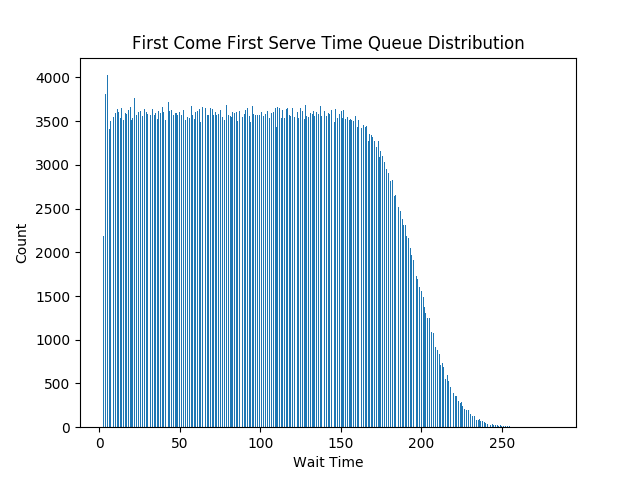
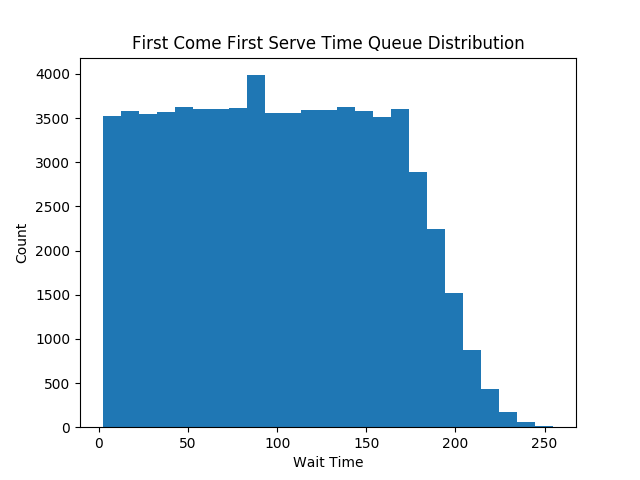
fixed bins

diff --git a/monte_carlo_v2.py b/monte_carlo_v2.py
@@ -1,12 +1,14 @@
 """
-590PR Spring 2019. Instructor: John Weible  jweible@illinois.edu
-Assignment on Numpy: "High-Tech Sculptures"
+By Alex Wieker; Email: awieker2@illinois.edu
+IS 590 PR Final Project: Wood Furniture Production Monte Carlo Simulation"
 See assignment instructions in the README.md document.
 """
+
 import numpy as np
 import pandas as pd
 import matplotlib.pyplot as plt
 import warnings
+
 
 desired_width = 500
 pd.set_option('display.width', desired_width)
@@ -39,30 +41,28 @@ def main(num_of_samples):
         stock_wait_time_list = np.append(stock_wait_time_list, stock_queue['Wait Time'])
 
     print('Median first come queue customer wait time:', np.median(fcq_wait_time_list))
-    print('Mean first come queue customer wait time:', np.mean(fcq_wait_time_list))
+    print('Mean first come queue customer wait time:', np.around(np.mean(fcq_wait_time_list), decimals=2))
     print('Max first come queue customer wait time:', np.max(fcq_wait_time_list))
     print('Min first come queue customer wait time:', np.min(fcq_wait_time_list))
 
-    fcq_wait_time_hist = plt.hist(fcq_wait_time_list, bins=500, density=False)
+    fcq_wait_time_hist = plt.hist(fcq_wait_time_list, bins=25, density=False)
     plt.xlabel('Wait Time')
     plt.ylabel('Count')
     plt.title('First Come First Serve Time Queue Distribution')
-    # plt.ylim([0, 8000])
     #plt.savefig('First Come First Serve Time Queue Distribution.png')
     plt.show()
 
     print('----')
 
     print('Median stock inventory queue wait time customer wait time:', np.median(stock_wait_time_list))
-    print('Mean stock inventory queue come queue customer wait time:', np.mean(stock_wait_time_list))
+    print('Mean stock inventory queue come queue customer wait time:', np.around(np.mean(stock_wait_time_list), decimals=2))
     print('Max stock inventory queue customer wait time:', np.max(stock_wait_time_list))
     print('Min stock inventory queue customer wait time:', np.min(stock_wait_time_list))
 
-    fcq_wait_time_hist = plt.hist(stock_wait_time_list, bins=500, density=False)
+    fcq_wait_time_hist = plt.hist(stock_wait_time_list, bins=25, density=False)
     plt.xlabel('Wait Time')
     plt.ylabel('Count')
     plt.title('Stock Inventory Wait Time Queue Distribution')
-    # plt.ylim([0, 8000])
     #plt.savefig('Stock Inventory Wait Time Queue Distribution.png')
     plt.show()
 
@@ -71,14 +71,13 @@ def pert(low, likely, high, confidence=4, samples=10000):
     """
     I got this function from Instructor Weible's Lecture Notes
 
-    :param low:
-    :param likely:
-    :param high:
+    :param low: This input parameter is the lowest expected value.
+    :param likely: This input parameter is the most likely expected value or mode
+    :param high: This input parameter is the highest expectedvalue.
     :param confidence:
     :param samples:
-    :return:
+    :return beta:
     """
-
 
     if confidence < 1 or confidence > 18:
         raise ValueError('confidence value must be in range 1-18.')
@@ -97,12 +96,18 @@ def orders(low, likely, high, daily_count_confidence, order_size_confidence, sam
     """
     :param low: This input variable is the lowest expected value, and will be called for the pert function.
     :param likely: This input variable is the most likely expected value or mode, and it will be used for the pert function.
-    :param high: This input variable is the expected highest, and will be used for the pert function.
+    :param high: This input variable is the highest expected value, and will be used for the pert function.
     :param daily_count_confidence: This is an input parameter for setting confidence in knowing daily order count.
     :param order_size_confidence: This is an input parameter for setting confidence in knowing order size.
     :param samples: This is an input parameter for setting how many samples to run in the PERT function.
     :return df: This function returns a DataFrame, which will be called in later functions
+    >>> generate_test_orders = orders(0, 3, 7, daily_count_confidence=4, order_size_confidence=4, samples=1)
+    >>> type(generate_test_orders)
+    <class 'pandas.core.frame.DataFrame'>
+    >>> list(generate_test_orders)
+    ['Order #', 'Day', 'Item A', 'Item B', 'Item C', 'Item D', 'Item E']
     """
+
     item_order_options = ['A', 'B', 'C', 'D', 'E']
     all_orders = []
     day_counter = 0
@@ -154,7 +159,6 @@ def orders(low, likely, high, daily_count_confidence, order_size_confidence, sam
     df = pd.DataFrame({'Order #': order_len, 'Day': column_day, 'Item A': column_a, 'Item B': column_b,
                        'Item C': column_c, 'Item D': column_d, 'Item E': column_e})
     df['Order #'] = df['Order #'] + 1
-
     return df
 
 
@@ -168,7 +172,25 @@ def build_time(item_list, machine_time_swap, low, likely, high, confidence):
     :param high: This input variable is the expected highest, and will be used for the pert function.
     :param confidence: This is an input parameter for setting confidence in knowing the PERT distribution range.
     :return item_hours: This function returns a list of how long it takes to build each of the items from item_list.
+    >>> test_df = pd.DataFrame({'Item A': [1, 3, 2, 2, 5, 6, 7, 10]})
+    >>> test_df = (generate_orders, machine_time_swap=0.5, build_confidence=4)
+       Item A
+    0       1
+    1       3
+    2       2
+    3       2
+    4       5
+    5       6
+    6       7
+    7      10
+    >>> item_list = test_df['Item A']
+    >>> type(item_list)
+    <class 'pandas.core.series.Series'>
+    >>> test_df_build_time = build_time(item_list, 0.5, 1, 1.5, 2, confidence=4)
+    >>> type(test_df_build_time)
+    <class 'numpy.float64'>
     """
+
     item_count = item_list.astype('int')
     item_hours = pert(low, likely, high, confidence=confidence, samples=item_count)
     item_hours = np.sum(item_hours)
@@ -186,14 +208,19 @@ def first_come_queue(df, machine_time_swap, build_confidence):
     :param machine_time_swap: This is an input parameter to pass to the build_time function for time to swap machines.
     :param build_confidence: This is an input parameter to pass to the build_time function to set item build confidence.
     :return first_come_df: This function returns this DataFrame, which is the completed first_come_queue.
-    """
+
+    I adopted code from the following URL as a resource to iterate over DataFrame rows:
+    https://stackoverflow.com/questions/16476924/how-to-iterate-over-rows-in-a-dataframe-in-pandas
+     """
+
+    first_come_df = df.copy(deep=True)
+
     item_a_list = []
     item_b_list = []
     item_c_list = []
     item_d_list = []
     item_e_list = []
-    first_come_df = df.copy(deep=True)
-    # https://stackoverflow.com/questions/16476924/how-to-iterate-over-rows-in-a-dataframe-in-pandas
+
     for index, row in first_come_df.iterrows():
         item_a_count = row['Item A']
         item_b_count = row['Item B']
@@ -223,7 +250,7 @@ def first_come_queue(df, machine_time_swap, build_confidence):
     first_come_df['Build E Hours'] = item_e_list
 
     first_come_df['Build Time'] = first_come_df['Build A Hours'] + first_come_df['Build B Hours'] + \
-                                  first_come_df['Build C Hours'] + first_come_df['Build D Hours'] +\
+                                  first_come_df['Build C Hours'] + first_come_df['Build D Hours'] + \
                                   first_come_df['Build E Hours']
     first_come_df['Pick Up Day'] = np.ceil((first_come_df['Build Time'].cumsum(axis=0)) / 7.5)
     first_come_df['Wait Time'] = first_come_df['Pick Up Day'] + 1
@@ -256,6 +283,8 @@ def stock_inventory_queue(df, machine_time_swap,  build_confidence, a_stock, b_s
     :param d_stock: This input parameter for sets how much Item D stock should be available before orders come in.
     :param e_stock: This input parameter for sets how much Item D stock should be available before orders come in.
     :return stock_df: This function returns this DataFrame, which is the completed stock_inventory_queue.
+
+    https: // stackoverflow.com / questions / 16476924 / how - to - iterate - over - rows - in -a - dataframe - in -pandas
     """
 
     stock_df = df.copy(deep=True)
@@ -336,7 +365,6 @@ def stock_inventory_queue(df, machine_time_swap,  build_confidence, a_stock, b_s
     item_d_list = []
     item_e_list = []
 
-# https: // stackoverflow.com / questions / 16476924 / how - to - iterate - over - rows - in -a - dataframe - in -pandas
     for index, row in stock_df.iterrows():
 
         item_a_count = row['Build Item A']

diff --git a/monte_carlo_v1.py b/monte_carlo_v1.py
@@ -390,3 +390,6 @@ first_come_queue(generate_orders, build_confidence=4)
 #df_test['Pick Up Day'] = df_test.groupby('Day')['Build Time'].cumsum() #.groupby(level=[0]).cumsum()  # use max equation subset
 #max_df = df_test.groupby('Day')['Build Time'].max().cumsum()
 # max_df = df_test.groupby('Day')['Pick Up Day'].max().cumsum()
+
+
+# stock_df['Build Item A'] = np.where(stock_df['Surplus A Stock'] >= 1, 0, stock_df['Item A'])
